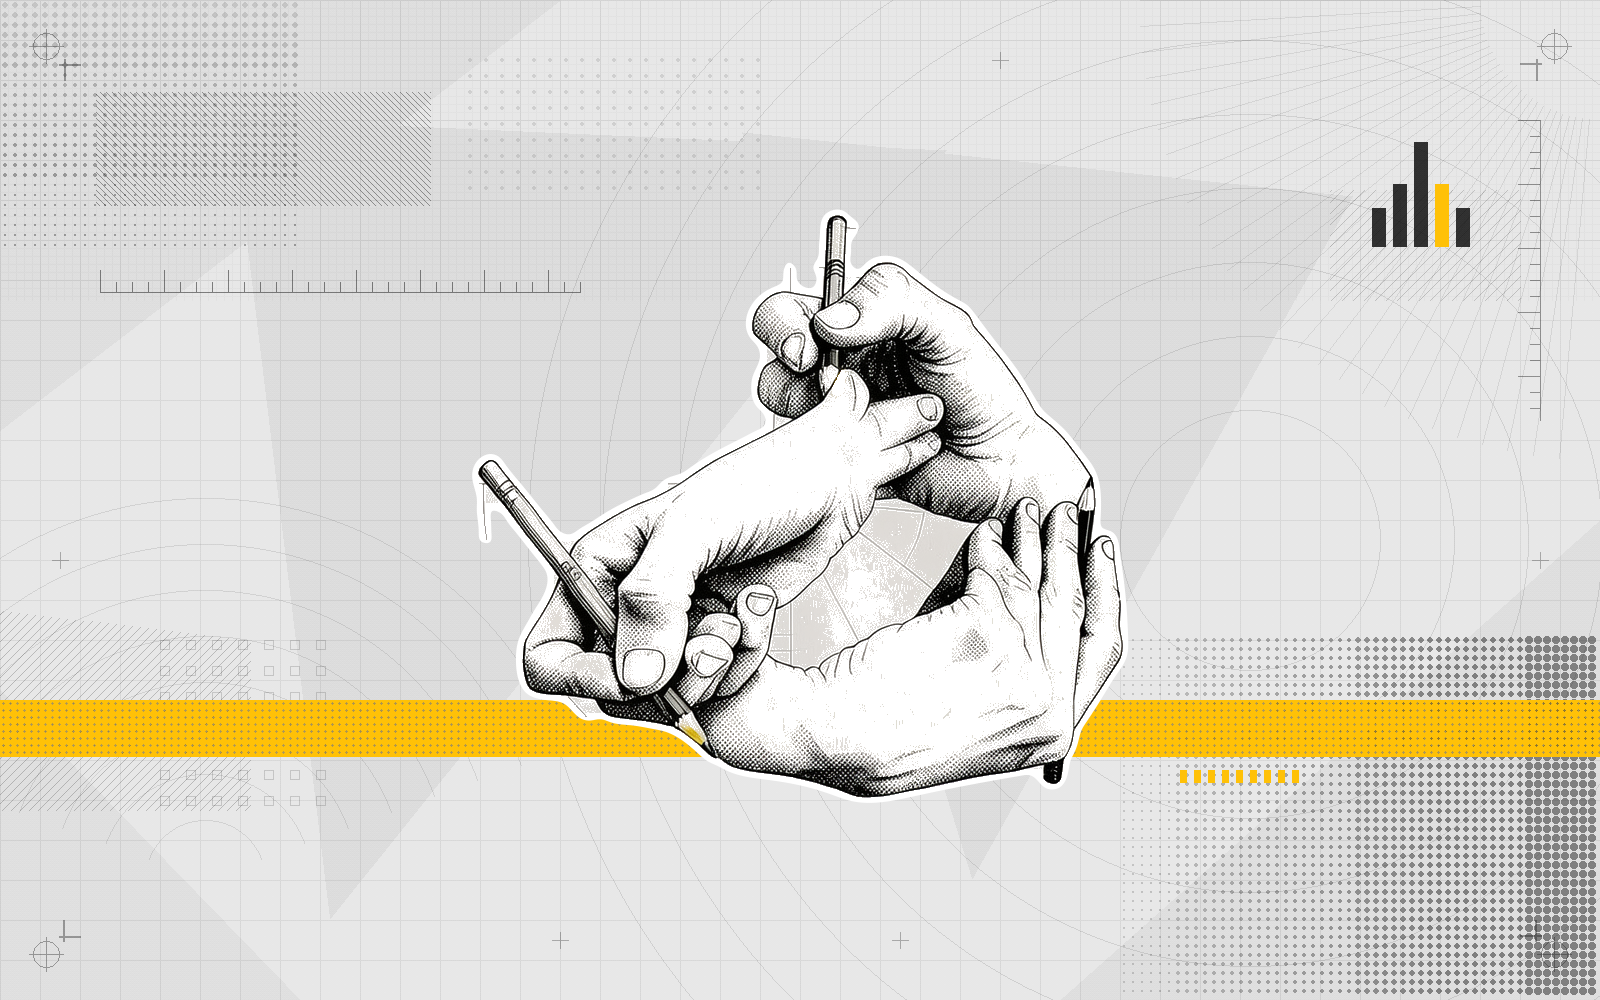
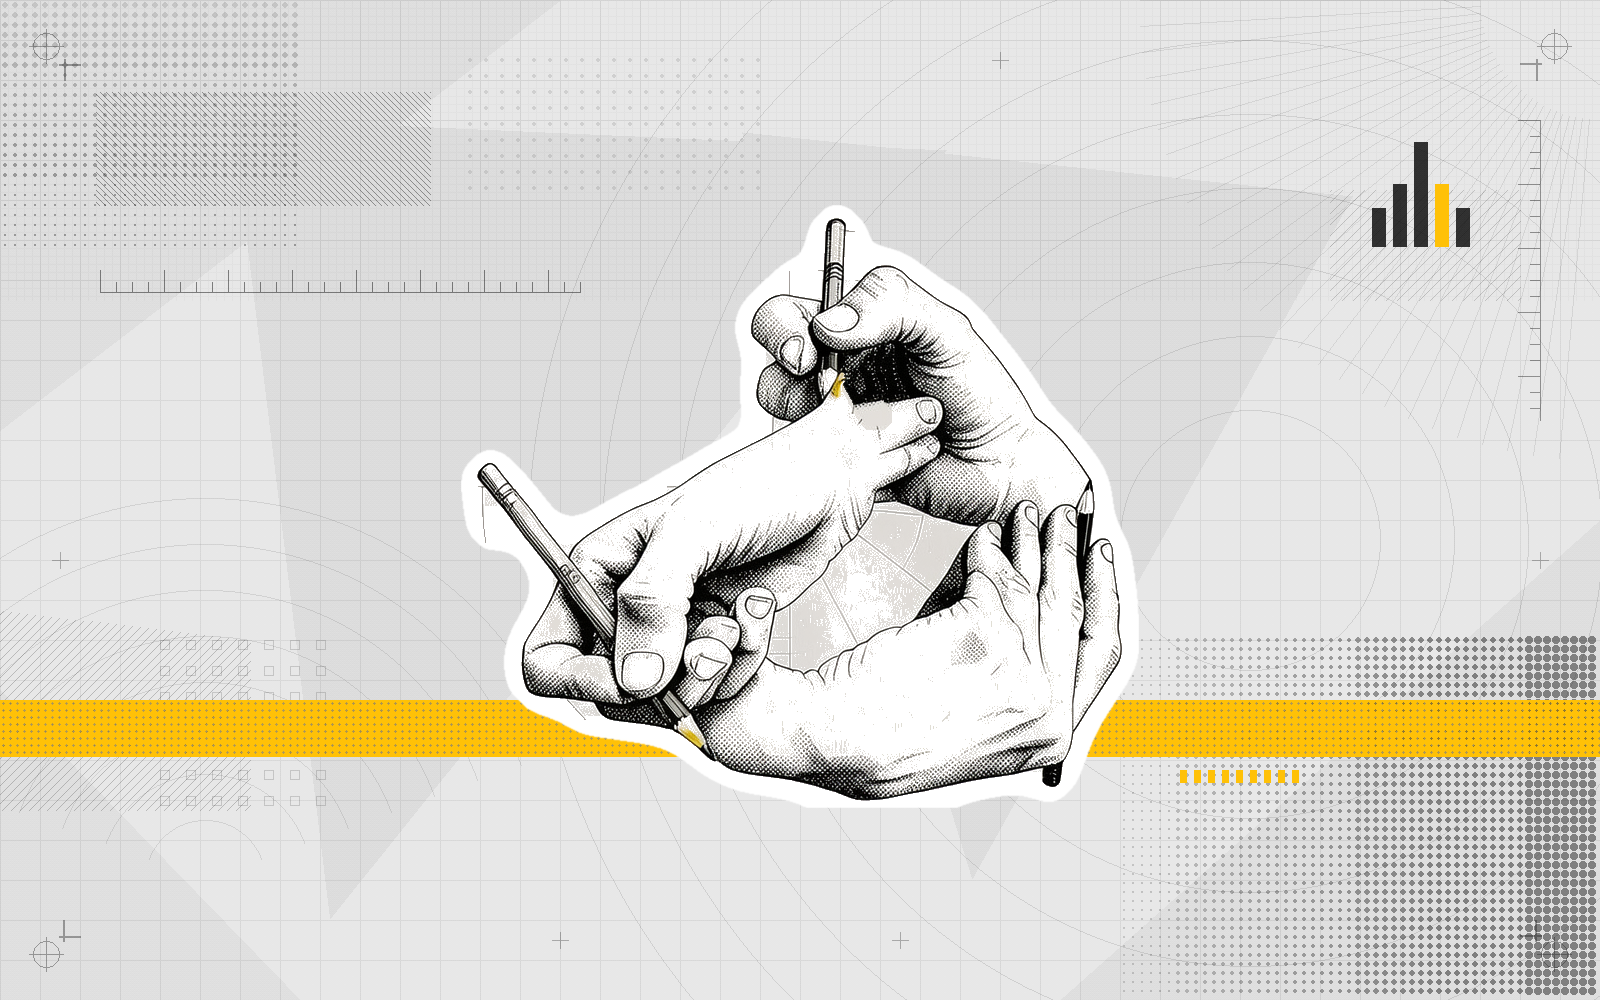
docs(recursive-skill-improvement): rough smooth outline and drop the thumb at the top hand's wrist
The white outline was still following the silhouette literally, so it carried
spiky uithalen (the thin pencil-tip sliver, the silhouette's own lobes and
narrow notches). It is now a smooth, rounded contour drawn from a heavily
smoothed distance field at 4x supersampling: thin protrusions are opened away,
only the largest component is kept, and the edge stays >=4px outside the
subject (0 subject px not enclosed). Measured angle change per contour point:
p95 33.7 -> 19.7 deg, max 167.3 -> 33.1 deg, points >=30 deg 201 -> 3.

The nail-less thumb-like bulge at the wrist of the uppermost hand is removed
(mask on the flesh protruding right of the arm's own contour; filled with the
neighbouring background, never touching the yellow pencil tip). Nothing else
changes: 0 pasted px outside the intervention differ from the source and the
background is byte-identical. Claude's vision pass named this bulge as the
complaint and kept the two *nailed* lobes as real fingers.

Changed region(s): [[0.2812, 0.186, 0.7188, 0.806]]

diff --git a/docs/fundamentals/node-tools/recursive-skill-improvement/index.md b/docs/fundamentals/node-tools/recursive-skill-improvement/index.md
@@ -22,7 +22,7 @@ It exists because Lion is a living product: components gain APIs, docs gain page
 last quarter quietly stops matching the library. Improvement here means the skill is regenerated from
 its source docs and re-measured against the library, not patched by hand and hoped over.
 
-![three hands drawing one another in a closed loop — the Escher tribute — printed on one white sticker base: the drawing lies on solid white, the outer edge of that white shape is the outline, drawn as one clean traced, simplified and spline-fitted closed path rendered antialiased so it carries no pixel stair-steps or fraying of a rasterised mask (no nubs off the left hand's wrist, and the stray nail-tipped thumb where the left hand meets the top hand is gone), the white also shows as ground in the openings between the hands, no card and no frame, standing on a technical sheet of fine grid and a finer micro-grid band, pale angular fields, two hatched blocks, a dotted field, two halftone fields, concentric rings with an arc fan and radial rays, corner registration marks, a horizontal and a vertical ruler scale, a stamp grid, a dotted accent band with a short tick row and a five-bar ledger device](./assets/recursive-skill-improvement-hero.png 'The self-drawing hands as a free-standing die-cut on a white ground: the pencil drawing reduced to two even ink tones, its whole silhouette under a pure white sticker base whose smoothed outer edge is the outline, over the printed plate the other covers share')
+![three hands drawing one another in a closed loop — the Escher tribute — printed on one white sticker base: the drawing lies on solid white, the outer edge of that white shape is the outline, drawn as one smooth, rounded closed contour that follows the forms only roughly — no spiky uithalen, slivers or narrow notches, the thin pencil-tip sliver and the silhouette's own lobes are enclosed rather than traced — rendered antialiased so it carries no pixel stair-steps, and the nail-less thumb-like bulge at the wrist of the uppermost hand is gone, the white also shows as ground in the openings between the hands, no card and no frame, standing on a technical sheet of fine grid and a finer micro-grid band, pale angular fields, two hatched blocks, a dotted field, two halftone fields, concentric rings with an arc fan and radial rays, corner registration marks, a horizontal and a vertical ruler scale, a stamp grid, a dotted accent band with a short tick row and a five-bar ledger device](./assets/recursive-skill-improvement-hero.png 'The self-drawing hands as a free-standing die-cut on a white ground: the pencil drawing reduced to two even ink tones, its whole silhouette under a pure white sticker base whose smoothed outer edge is the outline, over the printed plate the other covers share')
 
 ## The subject is any skill generated from docs
 
